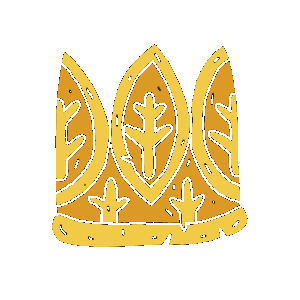
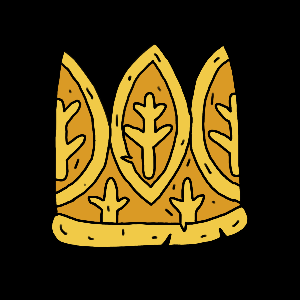
Remove the extra owlet after the king and restore the crown's black background.

diff --git a/src/components/GamePage.tsx b/src/components/GamePage.tsx
@@ -167,11 +167,6 @@ export default function GamePage() {
                   <GameCharacterAnimation key="king-woods" clip={game.storyAfter} />
                 </div>
               ) : null}
-              {storyOwl ? (
-                <div className="flex justify-center">
-                  <GameCharacterAnimation key="owl-after-king" clip={storyOwl} />
-                </div>
-              ) : null}
             </article>
 
             <div>

diff --git a/src/data/games.ts b/src/data/games.ts
@@ -79,7 +79,7 @@ export const GAMES: Game[] = [
         offsetY: 4,
       },
     ],
-    storyBeforeImage: "/animations/owlTale/Crow-wood.png?v=2",
+    storyBeforeImage: "/animations/owlTale/Crow-wood.png?v=3",
     storyAfter: {
       skePath: "/animations/owlTale/kingWoods_ske.json",
       texPath: "/animations/owlTale/kingWoods_tex.json",
